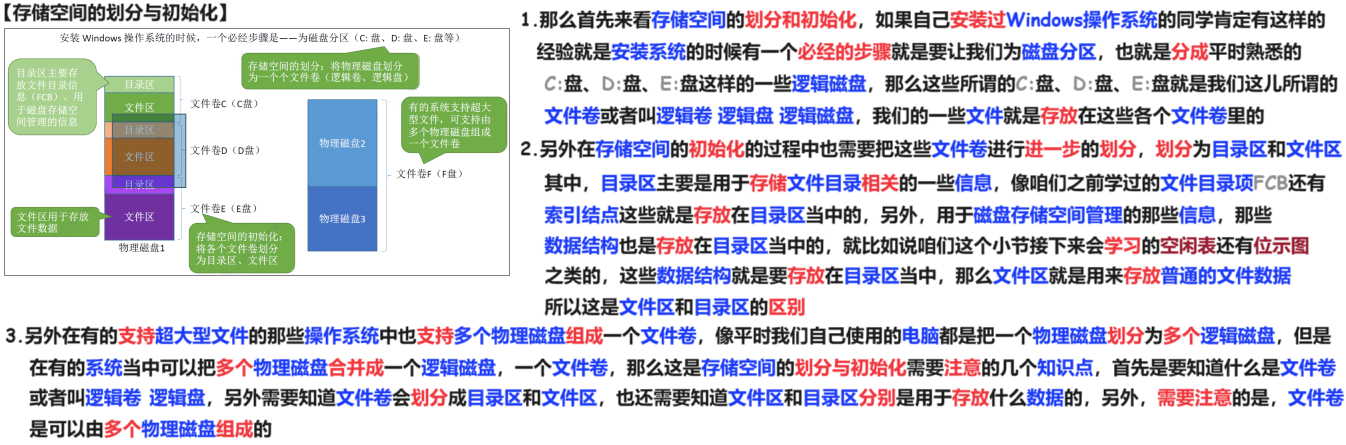
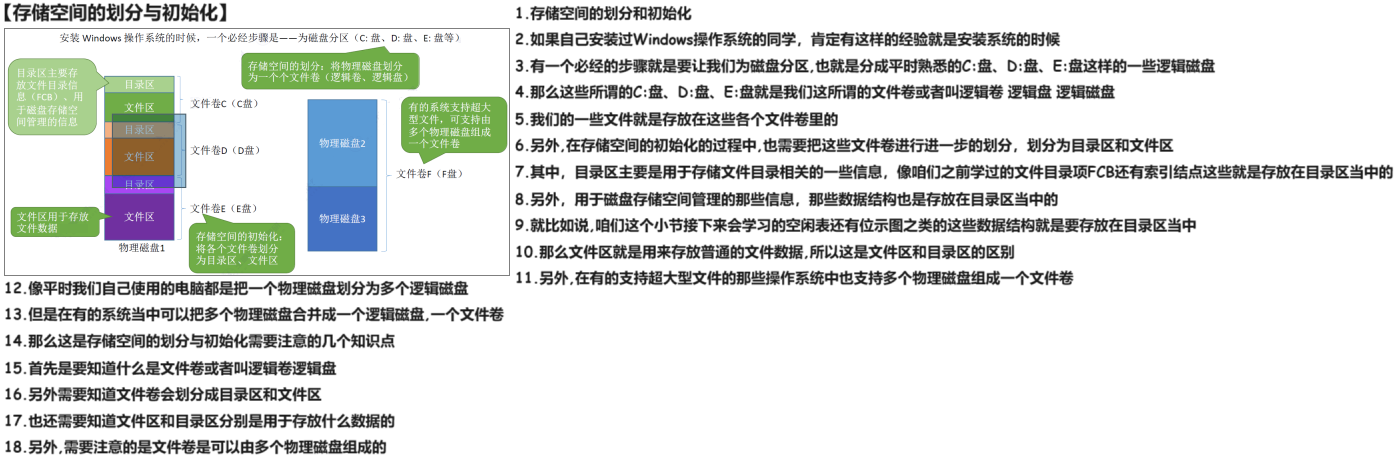
240801

diff --git a/01 初试/01 OS/02 24 25 王道/01 基础/04 文件管理/07 文件 存储空间管理 240730/01 消化/02 Doc.md b/01 初试/01 OS/02 24 25 王道/01 基础/04 文件管理/07 文件 存储空间管理 240730/01 消化/02 Doc.md
@@ -4,13 +4,13 @@
 
 # 01 文件 存储空间管理 知识总览
 
-<img src="https://cvp.oss-cn-shanghai.aliyuncs.com/picgo/202404261052173.png" alt="image-20240426105203944" style="zoom:50%;" />
+<img src="https://cvp.oss-cn-shanghai.aliyuncs.com/picgo/202408010849455.png" alt="image-20240801084922328" style="zoom:50%;" />
 
 
 
 # 02 存储空间的划分与初始化
 
-<img src="https://cvp.oss-cn-shanghai.aliyuncs.com/picgo/202404261129242.png" alt="image-20240426112901975" style="zoom:50%;" />
+<img src="https://cvp.oss-cn-shanghai.aliyuncs.com/picgo/202408010853166.png" alt="image-20240801085330054" style="zoom:50%;" />
 
 
 
